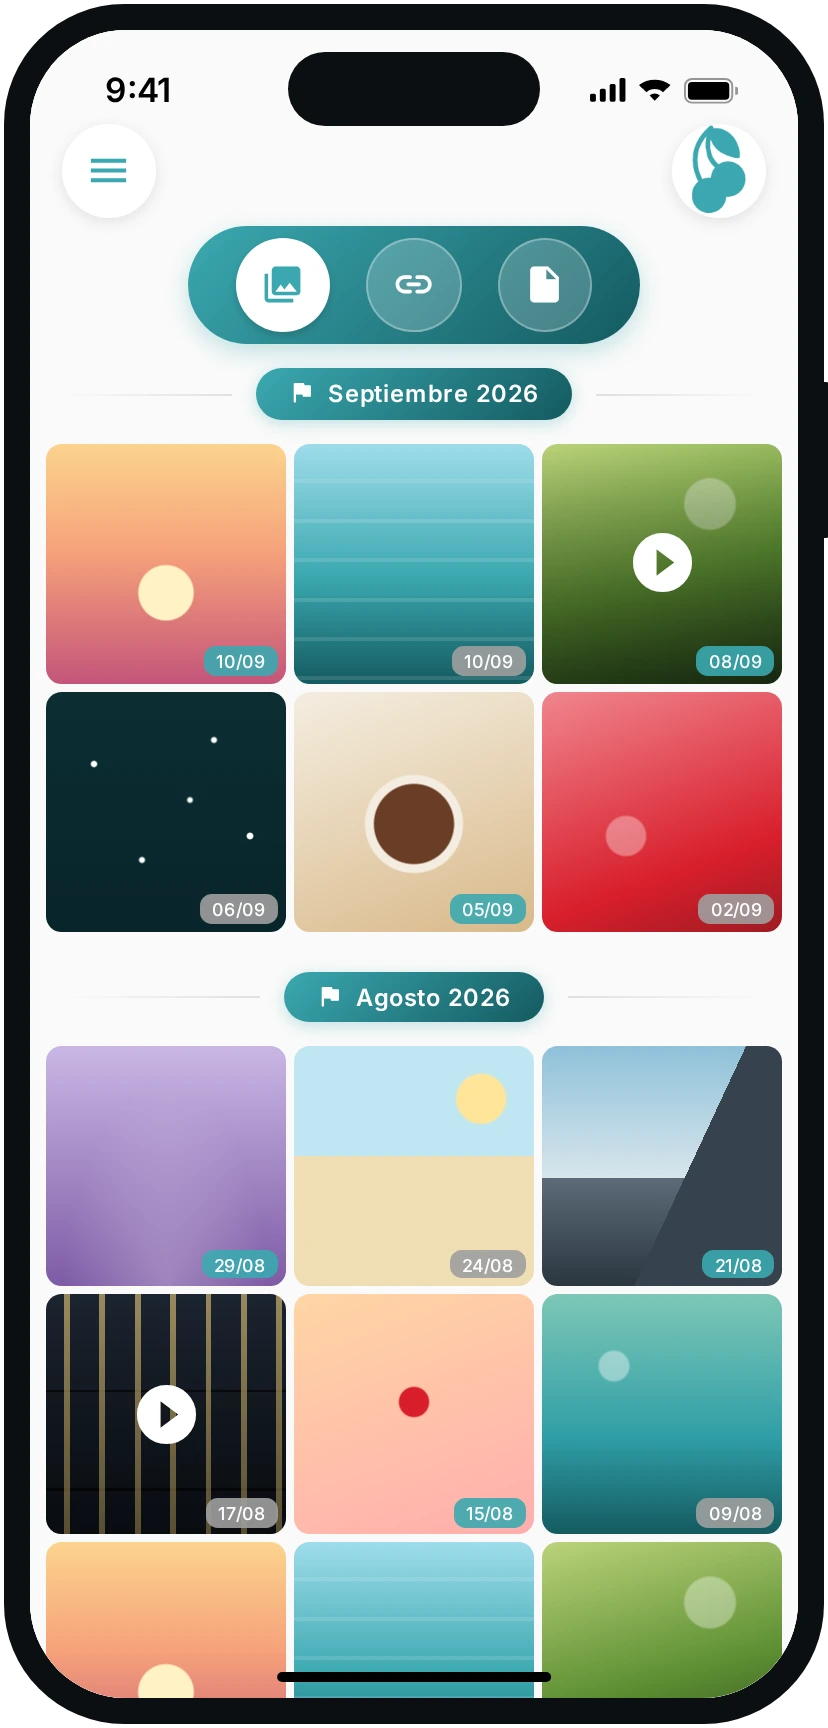
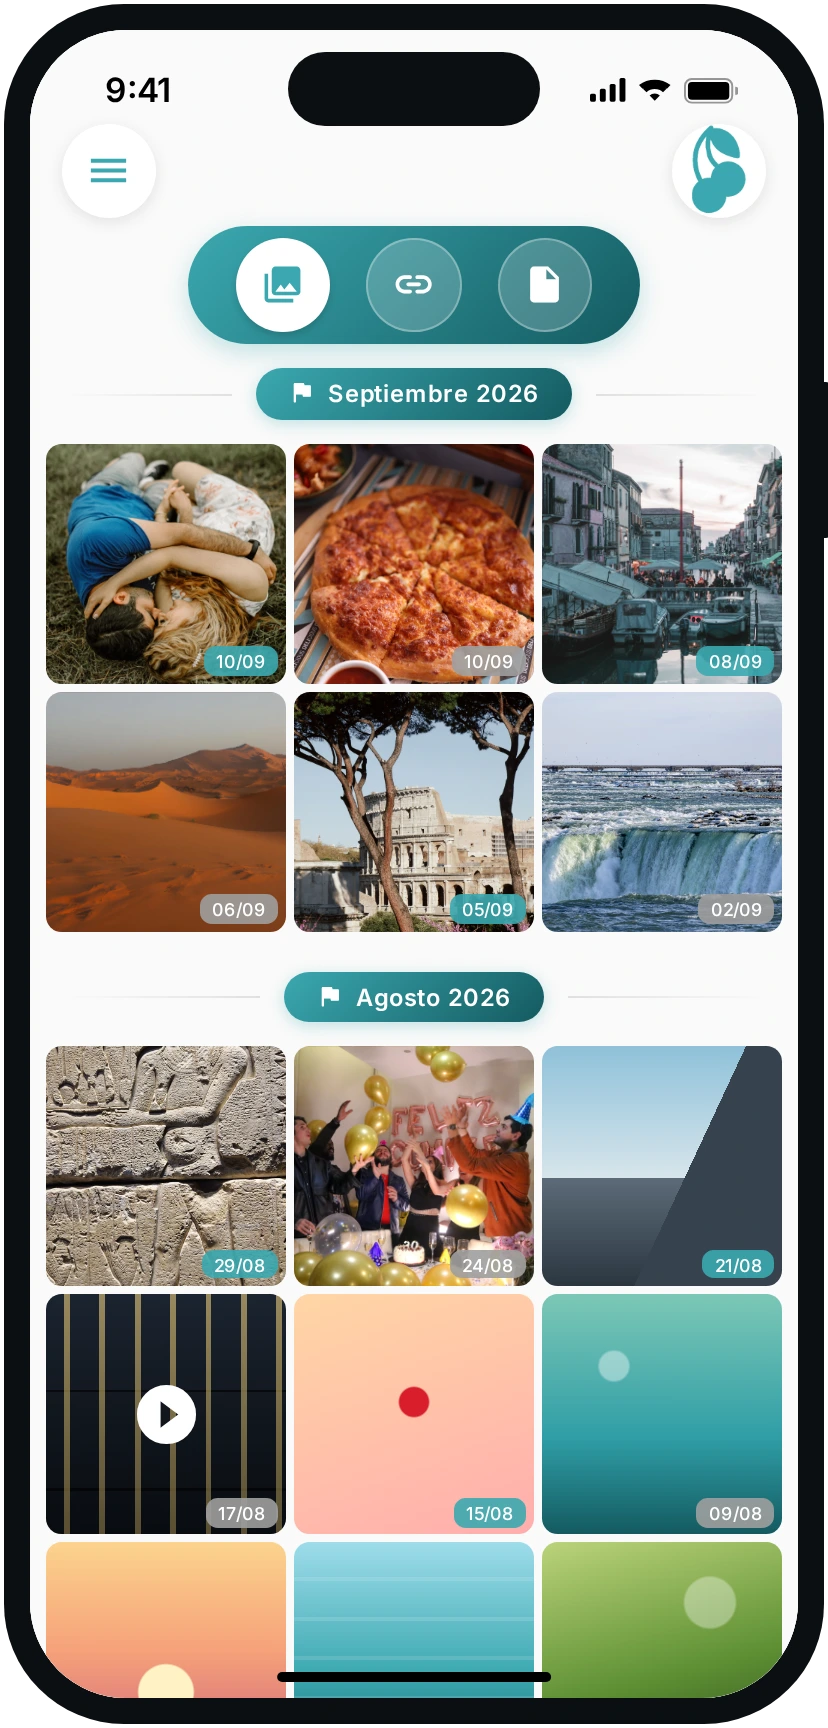
Foto vere nella galleria e dentro la chat
Le nove foto caricate sono ora quelle che si vedono nel sito.

- Rinominate con un prefisso numerico, perché l'ordine alfabetico decide quali
  finiscono nel mese in alto — le sei che si vedono davvero: coppia sull'erba,
  pizza, Venezia, deserto, Colosseo, cascate.
- Nuova convenzione: un file col nome che contiene "chat" è anche la foto del
  messaggio delle 21:08. È la pizza, che con "al bar sotto casa, ti aspetto
  qui" ci sta bene.
- Altra convenzione: i file che cominciano con "_" vengono ignorati. Ci finisce
  la foto delle bambine con la torta: la licenza Pexels copre l'uso
  commerciale, ma volti di minori nella pagina di vendita di un prodotto sono
  il caso più delicato, e quella foto non aggiunge niente alle altre. Basta
  togliere l'underscore per rimetterla in gioco.
- Tolto il badge "video" dalla terza tessera: adesso lì c'è una foto vera, e
  marcarla come video sarebbe una bugia. Il badge resta su una tessera
  disegnata.
- README con la tabella di chi ha scattato cosa: Pexels non chiede
  attribuzione, ma fra sei mesi nessuno ricorda da dove viene un file.

I due screenshot dell'app spostati in store/screenshots/reference/: sono
schermate vere e servono da metro di paragone, ma non sono pubblicabili —
contengono la foto profilo della coppia, annunci di case guardati davvero, e
materiale di terzi (foto degli annunci, mappe, marchi).

Peso: le immagini del sito restano 1,2 MB per lingua dopo la conversione WebP.
[…]

diff --git a/store/screenshots/src/index.html b/store/screenshots/src/index.html
@@ -424,7 +424,8 @@ const lang = COPY[q.get('lang')] ? q.get('lang') : 'it';
 const shot = parseInt(q.get('shot') || '1', 10);
 const OFFSET = parseInt(q.get('off') || '0', 10);
 const PHOTOS_REAL = (q.get('photos') || '').split(',').filter(Boolean);   // file in img/photos/
-const LINKS_REAL = (q.get('links') || '').split(',').filter(Boolean);     // file in img/links/   // px logici saltati dall'alto (device=card)
+const LINKS_REAL = (q.get('links') || '').split(',').filter(Boolean);     // file in img/links/
+const CHAT_PHOTO = q.get('chatphoto') || '';                             // la foto dentro la chat   // px logici saltati dall'alto (device=card)
 const t = UI[lang];
 const isCard = device === 'card';                        // ritaglio a scheda
 const isWeb = device === 'web' || device === 'webpair' || isCard;   // render per il sito
@@ -505,8 +506,8 @@ function chatScreen(mirror, tapCall) {
   // propria bozza al posto dell'indicatore "sta scrivendo".
   const sd = (side) => (mirror ? (side === 'me' ? 'them' : 'me') : side);
   // la foto del messaggio: la prima di img/photos/ se c'è, altrimenti disegnata
-  const pic = PHOTOS_REAL[0]
-    ? `background:url('img/photos/${PHOTOS_REAL[0]}') center/cover`
+  const pic = CHAT_PHOTO
+    ? `background:url('img/photos/${CHAT_PHOTO}') center/cover`
     : `background:radial-gradient(circle at 62% 30%,#FFE9A8 0 12%,transparent 13%),linear-gradient(180deg,#F6C88B 0%,#E98C6B 46%,#8E4A52 100%)`;
   const earlier = isTablet ? `${datesep(t.yesterday)}
     ${bubble(sd('me'), t.e1, '08:12', 'read')}
@@ -647,7 +648,9 @@ function mediaScreen(tab) {
     const [a, b] = PHOTOS[i % PHOTOS.length].split('|');
     return `<div class="ph" style="background:${b},${a}">${vid ? `<div class="vid">${mi('play_circle_filled', 36, '#fff')}</div>` : ''}<span class="badge ${mine ? '' : 'p'}">${date}</span></div>`;
   };
-  const sept = [['10/09', 1], ['10/09', 0], ['08/09', 1, 1], ['06/09', 0], ['05/09', 1], ['02/09', 0]];
+  // il badge "video" sta solo sulle tessere disegnate: marcarlo su una foto
+  // vera la farebbe passare per un video che non è
+  const sept = [['10/09', 1], ['10/09', 0], ['08/09', 1], ['06/09', 0], ['05/09', 1], ['02/09', 0]];
   const aug = [['29/08', 1], ['24/08', 0], ['21/08', 1], ['17/08', 0, 1], ['15/08', 1], ['09/08', 0], ['05/08', 1], ['02/08', 0], ['01/08', 1]];
   return `<div class="media">${fabs(false)}${tabs}
     ${sep(t.month)}<div class="pgrid">${sept.map((p, i) => tile(i, p[0], p[1], p[2])).join('')}</div>

diff --git a/store/screenshots/src/render.js b/store/screenshots/src/render.js
@@ -69,16 +69,21 @@ const outRoot = path.resolve(__dirname, opt('out', '../out'));
         // foto vere per la galleria, se qualcuno ne ha messe in src/img/photos/
         const photoDir = path.join(__dirname, 'img', 'photos');
         const real = fs.existsSync(photoDir)
-          ? fs.readdirSync(photoDir).filter((f) => /\.(jpe?g|png|webp)$/i.test(f)).sort()
+          ? fs.readdirSync(photoDir)
+              .filter((f) => /\.(jpe?g|png|webp)$/i.test(f) && !f.startsWith('_'))
+              .sort()
           : [];
         const photos = real.length ? `&photos=${real.join(',')}` : '';
+        // la foto che compare dentro la chat: quella col nome che contiene "chat"
+        const chatPic = real.find((f) => /chat/i.test(f)) || real[0];
+        const chatPhoto = chatPic ? `&chatphoto=${chatPic}` : '';
         // anteprime vere per la scheda dei link, se ce ne sono
         const linkDir = path.join(__dirname, 'img', 'links');
         const realLinks = fs.existsSync(linkDir)
           ? fs.readdirSync(linkDir).filter((f) => /\.(jpe?g|png|webp)$/i.test(f)).sort()
           : [];
         const links = realLinks.length ? `&links=${realLinks.join(',')}` : '';
-        const url = `${html}?device=${cfg.device}&lang=${lang}&shot=${shot}${shot2}${off}${photos}${links}`;
+        const url = `${html}?device=${cfg.device}&lang=${lang}&shot=${shot}${shot2}${off}${photos}${chatPhoto}${links}`;
         await page.addInitScript((sel) => { window.__clipSel = sel; }, cfg.clipSel || '.device');
         await page.goto(url, { waitUntil: 'load' });
         await page.evaluate(() => document.fonts.ready);

diff --git a/store/screenshots/src/img/photos/README.md b/store/screenshots/src/img/photos/README.md
@@ -1,53 +1,61 @@
-# Foto vere per la galleria
+# Foto della galleria
 
 Le schermate della galleria (`mediaScreen`) disegnano per default dei riquadri
-astratti a gradiente: servono a far vedere la griglia senza inventare ricordi di
-qualcun altro. Se in questa cartella ci sono delle immagini, `render.js` le passa
-alla pagina e le prime tessere della griglia diventano **foto vere**.
+astratti a gradiente. I file che stanno qui li sostituiscono, in ordine
+alfabetico: le prime sei finiscono nel mese in alto, quelle che si vedono nel
+sito. Le tessere che avanzano tornano ai gradienti.
 
-```
-store/screenshots/src/img/photos/01.jpg, 02.jpg, …
-```
+Due convenzioni sui nomi:
 
-Vengono usate in ordine alfabetico: le prime sei finiscono nel mese in alto —
-quelle che si vedono nel ritaglio usato dal sito. Le tessere rimaste tornano ai
-gradienti, quindi anche tre o quattro foto bastano.
+- un file che contiene **`chat`** nel nome è anche la foto che compare dentro la
+  conversazione, nel messaggio delle 21:08;
+- un file che comincia con **`_`** viene ignorato: sta qui ma non finisce da
+  nessuna parte.
+
+## Cosa c'è adesso
+
+| File | Soggetto | Dove si vede | Autore (Pexels) |
+|---|---|---|---|
+| `01-coppia-prato.jpg` | Coppia sdraiata sull'erba | prima tessera | Habib Hosseini |
+| `02-chat-pizza.jpg` | Pizza al tavolo | seconda tessera **e foto in chat** | Valeriya |
+| `03-venezia.jpg` | Canale di Venezia | terza tessera | Aisha Serafini |
+| `04-deserto.jpg` | Dune | quarta tessera | Lost Boy |
+| `05-colosseo.jpg` | Colosseo fra i pini | quinta tessera | Maurits Bausenhart |
+| `06-cascate.jpg` | Cascate | sesta tessera | Ali Soheil |
+| `07-geroglifici.jpg` | Geroglifici | mese di agosto | M. Abnodey |
+| `08-festa.jpg` | Festa con palloncini | mese di agosto | Jonathan Valdés |
+| `_torta-bambini.jpg` | Bambine con la torta | **non usata** | Ivan S |
+
+L'ultima è esclusa apposta. Sono minori riconoscibili: la licenza Pexels
+copre l'uso commerciale dell'immagine, ma dei volti di bambini nella pagina
+promozionale di un prodotto sono il caso più delicato che ci sia, e la foto non
+aggiunge niente che le altre non diano già. Se la vuoi, togli l'underscore dal
+nome.
 
 ## Requisiti
 
 | Voce | Valore |
 |---|---|
-| Formato | JPEG, PNG o WebP |
-| Taglio | **quadrato** (le tessere sono 1:1, il resto viene tagliato al centro) |
-| Dimensione | 800 × 800 px bastano: nel ritaglio finale una tessera sta in ~300 px |
-| Soggetto | quello che si manderebbe davvero una coppia: un piatto, un cane, il mare, una serata |
+| Formato | JPEG, PNG o WebP (niente HEIC: il renderer non lo apre) |
+| Taglio | quadrato o quasi: le tessere sono 1:1 e il resto viene tagliato al centro |
+| Dimensione | 800 × 800 px bastano; nel sito una tessera sta in ~100 px |
 
-Dopo averle messe qui, rigenera e rialleggerisci:
+Dopo aver aggiunto o cambiato i file:
 
 ```bash
 cd store/screenshots/src
-node render.js --target web-card --shot 5 --out ../../../public/assets
+node render.js --target web --shot 1,5 --out ../../../public/assets
 node webp.js ../../../public/assets/shots
+python3 ../../site/build_site.py
 ```
 
-## Attenzione alle licenze
+## Licenza
 
-Non mettere qui foto prese da un motore di ricerca. Le licenze Unsplash e Pexels
-coprono l'uso commerciale dell'immagine, ma **non** danno diritti sulla persona
-ritratta: una faccia riconoscibile usata nella pagina di vendita di un prodotto
-può richiedere una liberatoria (in Italia: art. 96-97 legge 633/1941). Per una
-galleria di coppia la via semplice è ovvia — **foto vostre**, oppure immagini
-senza volti riconoscibili.
+Le foto qui sono di [Pexels](https://www.pexels.com/license/): uso commerciale
+libero, attribuzione non richiesta — la tabella qui sopra la tiene lo stesso,
+perché fra sei mesi nessuno si ricorda da dove veniva un file.
 
-Fonti con uso commerciale libero, se servono:
-
-- **Unsplash** — <https://unsplash.com/license>
-- **Pexels** — <https://www.pexels.com/license/>
-- **Openverse** — <https://openverse.org> (filtra su "uso commerciale"; la
-  licenza va letta caso per caso, alcune CC chiedono attribuzione)
-
-Se prendi una foto da fuori, segnala qui sotto da dove viene:
-
-| File | Fonte | Autore | Licenza | Data |
-|---|---|---|---|---|
-| — | — | — | — | — |
+Se ne aggiungi altre prese da fuori, ricordati che la licenza copre l'immagine,
+non la persona ritratta: un volto riconoscibile nella pagina di vendita di un
+prodotto può richiedere una liberatoria (in Italia: art. 96-97 legge 633/1941).
+Le foto vostre sono sempre la strada semplice.

diff --git a/store/screenshots/reference/README.md b/store/screenshots/reference/README.md
@@ -1,0 +1,21 @@
+# Screenshot di riferimento
+
+Schermate vere dell'app, prese su un telefono reale. Servono a controllare che
+le schermate finte del generatore (`src/index.html`) assomiglino all'originale:
+**non finiscono da nessuna parte**, né sul sito né sugli store.
+
+| File | Cosa mostra |
+|---|---|
+| `link-tab-01.png` | La scheda dei link: masonry a due colonne, card con anteprima, titolo, descrizione, dominio e data |
+| `link-tab-02.png` | Stessa scheda, più in basso: card senza anteprima, anteprime di mappe e di siti |
+
+## Perché non si pubblicano
+
+Sono screenshot di una chat vera, e contengono:
+
+- la **foto profilo della coppia** in alto a destra — persone reali;
+- contenuti personali: annunci di case guardati davvero, viaggi, date;
+- materiale di terzi: le foto degli annunci, le mappe, i marchi dei siti.
+
+Sul sito servono schermate costruite, che è esattamente quello che fa il
+generatore. Queste restano qui come metro di paragone.
